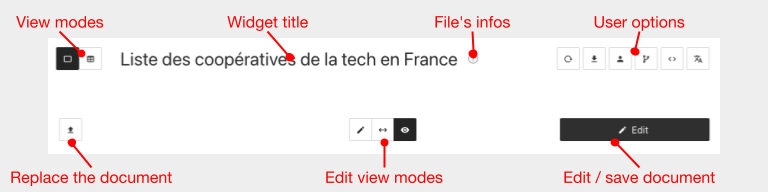
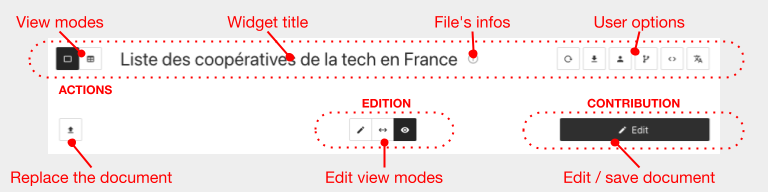
more tuto images & implementation in markdowns

diff --git a/texts/tutorial/tutorial-overview-en.md b/texts/tutorial/tutorial-overview-en.md
@@ -1,15 +1,24 @@
 
 # Tutorials
 
+<!-- <div style="border: thin solid lightgrey;">
+  <img 
+    alt="TUTORIAL-INTRO"
+    src="https://raw.githubusercontent.com/multi-coop/gitribute-documentation-content/main/images/tutorial/edition-preview-csv-table.png"
+    />
+</div> -->
+
 This section aims to give you some hints for using basic features of Gitribute.
 
 Ideally we wouldn't want to write this section at all, given we are trying to design Gitribute as self-explanatory: a lot of tooltips are associated to the action buttons, so the user could directly have a glimpse of what every button does without having to jump to the docs.
 
 But if we're honest we're not 100% sure our UX design will be clear enough, so tutorials could be a complementary tool to guide new users.
 
-<div style="border: thin solid lightgrey;">
-  <img 
+In the illustration and tutorials below you will discover the different buttons usually accessible by a Gtribute user :
+
+<div>
+  <img
     alt="TUTORIAL-INTRO"
-    src="https://raw.githubusercontent.com/multi-coop/gitribute-documentation-content/main/images/tutorial/edition-preview-csv-table.png"
+    src="https://raw.githubusercontent.com/multi-coop/gitribute-documentation-content/main/images/tutorial/commented/tutorial-01.png"
     />
 </div>

diff --git a/texts/tutorial/tutorial-actions-en.md b/texts/tutorial/tutorial-actions-en.md
@@ -2,3 +2,10 @@
 # Tutorial - actions available globaly
 
 🚧  &nbsp; `Work in progress...`
+
+<div>
+  <img
+    alt="TUTORIAL-INTRO"
+    src="https://raw.githubusercontent.com/multi-coop/gitribute-documentation-content/main/images/tutorial/commented/tutorial-actions.png"
+    />
+</div>
